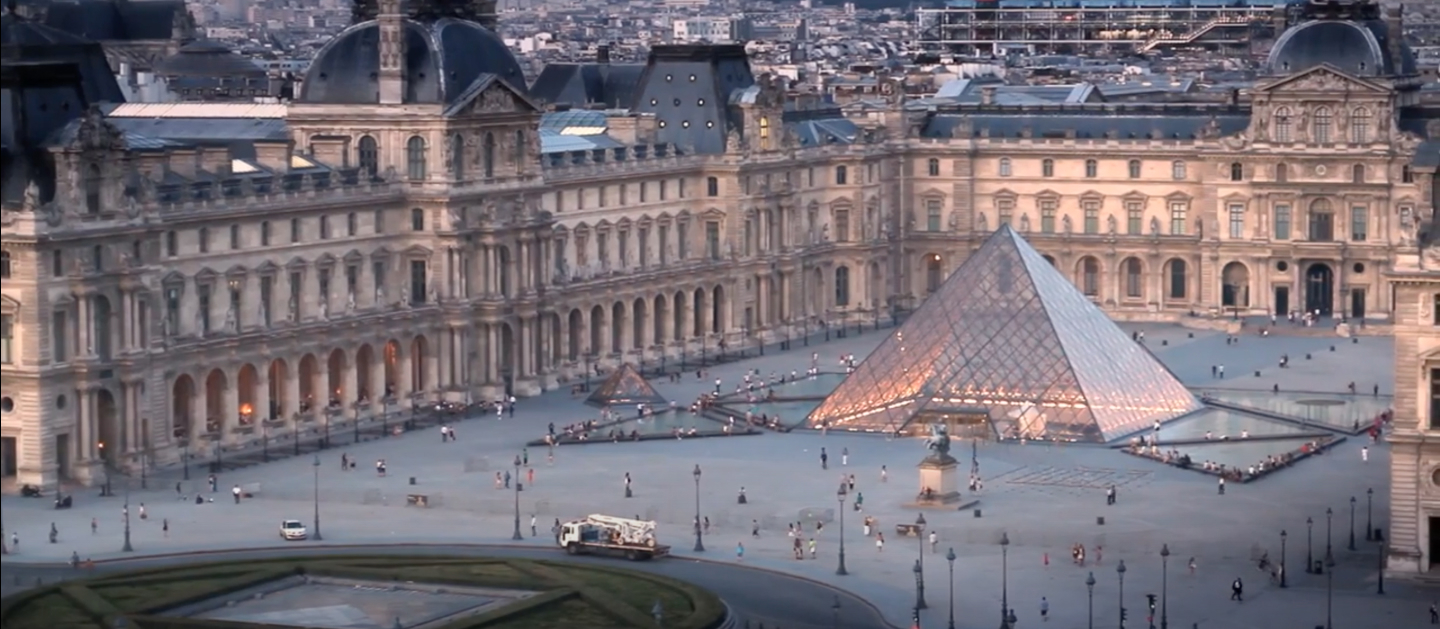
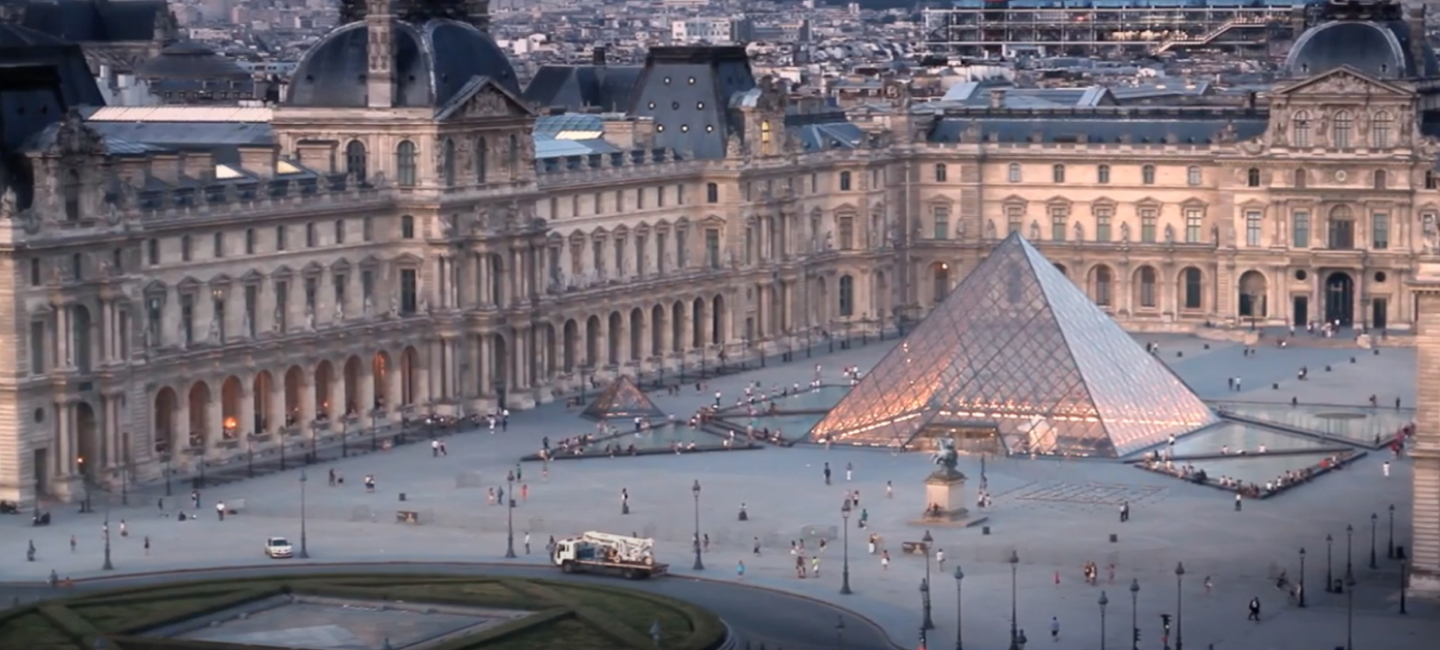
feat: add slider in video section. Correct styles of video section

diff --git a/museum/src/index.html b/museum/src/index.html
@@ -40,7 +40,7 @@
               >Discover the Louvre</a
             >
           </div>
-          <div class="swiper">
+          <div class="swiper welcom-swiper">
             <div class="swiper-wrapper">
               <div class="swiper-slide swiper-slide-1"></div>
               <div class="swiper-slide swiper-slide-2"></div>
@@ -148,6 +148,13 @@
       </section>
       <section class="section video" id="video">
         <div class="container video-container">
+          <div class="info">
+            <h2 class="title title-gold">Video journey</h2>
+            <p>
+              Enter and visit one of the most famous museums in the world and
+              enjoy masterpieces such as Mona Lisa or Hammurabi's Code
+            </p>
+          </div>
           <div class="video-player">
             <img
               src="./assets/img/video-picture.jpg"
@@ -157,13 +164,11 @@
             <button class="btn btn-middle-play"></button>
           </div>
           <div class="control-panel">
-            <button class="btn btn-back"></button>
             <button class="btn btn-play"></button>
-            <button class="btn btn-forward"></button>
             <input
               class="input input-progress"
               type="range"
-              value="47"
+              value="54"
               min="0"
               max="100"
             />
@@ -180,12 +185,70 @@
             <button class="btn btn-fullScreen"></button>
           </div>
 
-          <div class="info">
-            <h2 class="title title-gold">Video journey</h2>
-            <p>
-              Enter and visit one of the most famous museums in the world and
-              enjoy masterpieces such as Mona Lisa or Hammurabi's Code
-            </p>
+          <div class="swiper video-swiper">
+            <div class="swiper-wrapper video-swiper-wrapper">
+              <div class="swiper-slide video-swiper-slide">
+                <iframe
+                  width="560"
+                  height="315"
+                  src="https://www.youtube.com/embed/aWmJ5DgyWPI"
+                  title="YouTube video player"
+                  frameborder="0"
+                  allow="accelerometer; autoplay; clipboard-write; encrypted-media; gyroscope; picture-in-picture"
+                  allowfullscreen
+                ></iframe>
+              </div>
+              <div class="swiper-slide video-swiper-slide">
+                <iframe
+                  width="560"
+                  height="315"
+                  src="https://www.youtube.com/embed/Vi5D6FKhRmo"
+                  title="YouTube video player"
+                  frameborder="0"
+                  allow="accelerometer; autoplay; clipboard-write; encrypted-media; gyroscope; picture-in-picture"
+                  allowfullscreen
+                ></iframe>
+              </div>
+              <div class="swiper-slide video-swiper-slide">
+                <iframe
+                  width="560"
+                  height="315"
+                  src="https://www.youtube.com/embed/NOhDysLnTvY"
+                  title="YouTube video player"
+                  frameborder="0"
+                  allow="accelerometer; autoplay; clipboard-write; encrypted-media; gyroscope; picture-in-picture"
+                  allowfullscreen
+                ></iframe>
+              </div>
+              <div class="swiper-slide video-swiper-slide">
+                <iframe
+                  width="560"
+                  height="315"
+                  src="https://www.youtube.com/embed/zp1BXPX8jcU"
+                  title="YouTube video player"
+                  frameborder="0"
+                  allow="accelerometer; autoplay; clipboard-write; encrypted-media; gyroscope; picture-in-picture"
+                  allowfullscreen
+                ></iframe>
+              </div>
+              <div class="swiper-slide video-swiper-slide">
+                <iframe
+                  width="560"
+                  height="315"
+                  src="https://www.youtube.com/embed/2OR0OCr6uRE"
+                  title="YouTube video player"
+                  frameborder="0"
+                  allow="accelerometer; autoplay; clipboard-write; encrypted-media; gyroscope; picture-in-picture"
+                  allowfullscreen
+                ></iframe>
+              </div>
+            </div>
+
+            <div class="swiper-controls video-swiper-controls">
+              <div class="swiper-button-prev video-swiper-button-prev"></div>
+              <div class="swiper-button-next video-swiper-button-next"></div>
+              <div class="video-swiper-pagination"></div>
+            </div>
           </div>
         </div>
       </section>

diff --git a/museum/src/css/mainStyles.scss b/museum/src/css/mainStyles.scss
@@ -328,12 +328,16 @@ body {
 }
 
 .video {
-  &-container {
-    padding-top: 12px;
-  }
+  padding-bottom: 72px;
 
   &-player {
     position: relative;
+    height: 650px;
+
+    img {
+      height: 100%;
+      width: 100%;
+    }
 
     .btn {
       height: 220px;
@@ -353,11 +357,11 @@ body {
 
   .control-panel {
     display: flex;
-    justify-content: space-evenly;
+    justify-content: space-around;
     align-items: center;
     height: 85px;
     width: 100%;
-    margin-top: -5px;
+    margin-top: -1px;
     padding-top: 2px;
     background-color: #000;
 
@@ -372,33 +376,24 @@ body {
           brightness(89%) contrast(92%);
       }
 
-      &-back {
-        width: 27px;
-        height: 30px;
-        background-image: url(../assets/svg/btn-back.svg);
-      }
-
       &-play {
         width: 23px;
         height: 30px;
+        margin-left: 5px;
         background-image: url(../assets/svg/btn-play.svg);
-      }
-
-      &-forward {
-        width: 27px;
-        height: 30px;
-        background-image: url(../assets/svg/btn-forward.svg);
       }
 
       &-volume {
         width: 38px;
         height: 30px;
+        margin-left: 2px;
         background-image: url(../assets/svg/btn-volume.svg);
       }
 
       &-fullScreen {
         width: 36px;
         height: 36px;
+        margin-right: 5px;
         background-image: url(../assets/svg/btn-fullScreen.svg);
       }
     }
@@ -406,14 +401,12 @@ body {
     .input {
       background: linear-gradient(
         to right,
-        #24809e 0%,
-        #24809e 47%,
-        #c4c4c4 47%,
+        $red 0%,
+        $red 43%,
+        #c4c4c4 43%,
         #c4c4c4 100%
       );
       height: 8px;
-      // outline: none;
-      // transition: background 450ms ease-in;
       -webkit-appearance: none;
 
       &::-webkit-slider-thumb {
@@ -426,7 +419,14 @@ body {
       }
 
       &-progress {
-        width: 820px;
+        width: 929px;
+        background: linear-gradient(
+          to right,
+          $red 0%,
+          $red 54%,
+          #c4c4c4 54%,
+          #c4c4c4 100%
+        );
       }
 
       &-volume {
@@ -437,7 +437,8 @@ body {
     .volume {
       display: flex;
       align-items: center;
-      width: 15.28%;
+      justify-content: space-between;
+      width: 243px;
 
       .btn-volume {
         margin-right: 20px;
@@ -447,7 +448,7 @@ body {
 
   .info {
     display: flex;
-    margin-top: 40px;
+    margin-bottom: 75px;
 
     h2 {
       width: 50%;

diff --git a/museum/src/css/video-swiper.scss b/museum/src/css/video-swiper.scss
@@ -1,0 +1,75 @@
+.video-swiper {
+  height: 311px;
+  width: 100%;
+  margin-top: 40px;
+
+  &-wrapper {
+    height: 100% !important;
+  }
+
+  &-slide {
+    width: auto !important;
+
+    iframe {
+      width: 452px;
+      height: 254px;
+    }
+  }
+
+  .swiper-controls {
+    position: absolute;
+    left: 50%;
+    transform: translateX(-50%);
+    bottom: 0;
+    display: flex;
+    width: 200px;
+    height: auto;
+    z-index: 1;
+    background: inherit;
+  }
+  &-pagination {
+    text-align: center;
+    margin-top: -16px;
+  }
+
+  .swiper-pagination-bullet {
+    background-color: #999 !important;
+    width: 12px !important;
+    height: 12px !important;
+    border-radius: 50% !important;
+    margin: 0 10px !important;
+
+    &-active {
+      background-color: #333 !important;
+    }
+  }
+
+  &-button-prev {
+    height: 12px !important;
+    width: 10px !important;
+    margin-top: -16px !important;
+    top: 100% !important;
+
+    &::after {
+      content: "";
+      background-image: url(../assets/img/video-slider/btnPrev.svg);
+      background-size: contain;
+      background-repeat: no-repeat;
+    }
+  }
+
+  &-button-next {
+    left: calc(100% - 10px) !important;
+    height: 12px !important;
+    width: 10px !important;
+    margin-top: -16px !important;
+    top: 100% !important;
+
+    &::after {
+      content: "";
+      background-image: url(../assets/img/video-slider/btnNext.svg);
+      background-size: cover;
+      background-repeat: no-repeat;
+    }
+  }
+}

diff --git a/museum/src/js/video-swiper.js b/museum/src/js/video-swiper.js
@@ -1,0 +1,25 @@
+import Swiper, { Pagination, Navigation } from "swiper";
+
+import "swiper/scss";
+import "swiper/scss/pagination";
+import "swiper/scss/navigation";
+
+Swiper.use([Pagination, Navigation]);
+
+const videoSwiper = new Swiper(".video-swiper", {
+  navigation: {
+    nextEl: ".video-swiper-button-next",
+    prevEl: ".video-swiper-button-prev",
+  },
+
+  loop: true,
+
+  pagination: {
+    el: ".video-swiper-pagination",
+    clickable: true,
+  },
+
+  slidesPerView: 3,
+  spaceBetween: 42,
+  allowTouchMove: false,
+});

diff --git a/museum/src/js/progress-bar.js b/museum/src/js/progress-bar.js
@@ -3,6 +3,6 @@ const progressBar = document.querySelectorAll(".input");
 progressBar.forEach((item) =>
   item.addEventListener("input", function () {
     const value = this.value;
-    this.style.background = `linear-gradient(to right, #24809e 0%, #24809e ${value}%, #c4c4c4 ${value}%, white 100%)`;
+    this.style.background = `linear-gradient(to right, #710707 0%, #710707 ${value}%, #c4c4c4 ${value}%, white 100%)`;
   })
 );

diff --git a/museum/src/js/swiper.js b/museum/src/js/swiper.js
@@ -6,7 +6,7 @@ import "swiper/scss/navigation";
 
 Swiper.use([Pagination, Navigation]);
 
-const swiper = new Swiper(".swiper", {
+const swiper = new Swiper(".welcom-swiper", {
   navigation: {
     nextEl: ".swiper-button-next",
     prevEl: ".swiper-button-prev",

diff --git a/museum/src/index.js b/museum/src/index.js
@@ -3,3 +3,4 @@ import "./css/index.scss";
 import "./js/progress-bar";
 import "./js/swiper";
 import "./js/comparison-slider";
+import "./js/video-swiper";

diff --git a/museum/src/css/swiper.scss b/museum/src/css/swiper.scss
@@ -8,7 +8,7 @@
   }
 
   &-slide {
-    width: 99.97% !important;
+    
     &-1 {
       background: linear-gradient(
           90deg,

diff --git a/museum/src/css/index.scss b/museum/src/css/index.scss
@@ -1,2 +1,3 @@
 @import "./mainStyles.scss";
 @import "./swiper.scss";
+@import "./video-swiper.scss";
